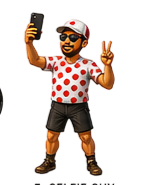
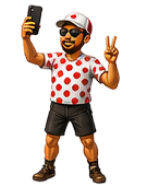
Remove flag obstacle

Changed region(s): [[0.1379, 0.027, 0.8276, 1.0], [0.0, 0.4865, 0.0276, 0.6216]]

diff --git a/src/systems/TextureFactory.ts b/src/systems/TextureFactory.ts
@@ -49,7 +49,6 @@ export class TextureFactory {
     if (!ART_BACKED_KEYS.has("bottle")) this.generateBottle();
     if (!ART_BACKED_KEYS.has("barrier")) this.generateBarrier();
     this.generateProtester();
-    this.generateFlag();
     if (!ART_BACKED_KEYS.has("backpack")) this.generateBackpack();
     this.generateCloud();
     this.g.destroy();
@@ -421,16 +420,6 @@ export class TextureFactory {
     this.save("protester", w, h);
   }
 
-  private generateFlag(): void {
-    this.clear();
-    const w = 90;
-    const h = 70;
-    this.g.fillStyle(0x8a5a2b, 1);
-    this.g.fillRect(6, 0, 6, h);
-    this.g.fillStyle(0xff4d5e, 1);
-    this.g.fillTriangle(12, 4, 12, 40, w - 4, 22);
-    this.save("flag", w, h);
-  }
 
   private generateBackpack(): void {
     this.clear();

diff --git a/src/types/index.ts b/src/types/index.ts
@@ -9,14 +9,13 @@ export type ObstacleKind =
   | "bottle"
   | "barrier"
   | "protester"
-  | "flag"
   | "backpack";
 
 /** How an obstacle behaves once spawned. */
 export type ObstacleMotion =
   | "static" // sits in a lane, road scrolls past it
   | "crossing" // walks/runs across lanes (dog, protester)
-  | "swooping" // drops into a lane from off-screen (pigeon, flag)
+  | "swooping" // drops into a lane from off-screen (pigeon)
   | "inLane"; // moves within the lane grid, can change lanes (car)
 
 export interface ObstacleDefinition {

diff --git a/src/config/obstacles.ts b/src/config/obstacles.ts
@@ -12,7 +12,6 @@ export const OBSTACLE_DEFINITIONS: readonly ObstacleDefinition[] = [
   { kind: "backpack", motion: "static", textureKey: "backpack", hitboxScale: 0.7, weight: 7, unlockAtSeconds: 8, jumpable: true, artPath: "art/obstacles/backpack.png", displayWidth: 100, spriteOriginY: 0.88 },
   { kind: "selfieGuy", motion: "static", textureKey: "selfieGuy", hitboxScale: 0.85, weight: 8, unlockAtSeconds: 6, jumpable: false, artPath: "art/obstacles/selfie.png", displayWidth: 120, spriteOriginY: 0.95 },
   { kind: "pigeon", motion: "swooping", textureKey: "pigeon", hitboxScale: 0.75, weight: 8, unlockAtSeconds: 10, jumpable: false, artPath: "art/obstacles/pigeon.png", displayWidth: 120, spriteOriginY: 0.6 },
-  { kind: "flag", motion: "swooping", textureKey: "flag", hitboxScale: 0.7, weight: 6, unlockAtSeconds: 12, jumpable: false },
   { kind: "dog", motion: "crossing", textureKey: "dog", hitboxScale: 0.85, weight: 7, unlockAtSeconds: 15, jumpable: true, artPath: "art/obstacles/dog.png", displayWidth: 150, spriteOriginY: 0.9 },
   { kind: "protester", motion: "crossing", textureKey: "protester", hitboxScale: 0.9, weight: 5, unlockAtSeconds: 20, jumpable: false },
   { kind: "car", motion: "inLane", textureKey: "car", hitboxScale: 1.05, weight: 6, unlockAtSeconds: 25, jumpable: false, artPath: "art/obstacles/car.png", displayWidth: 175, spriteOriginY: 0.9 },